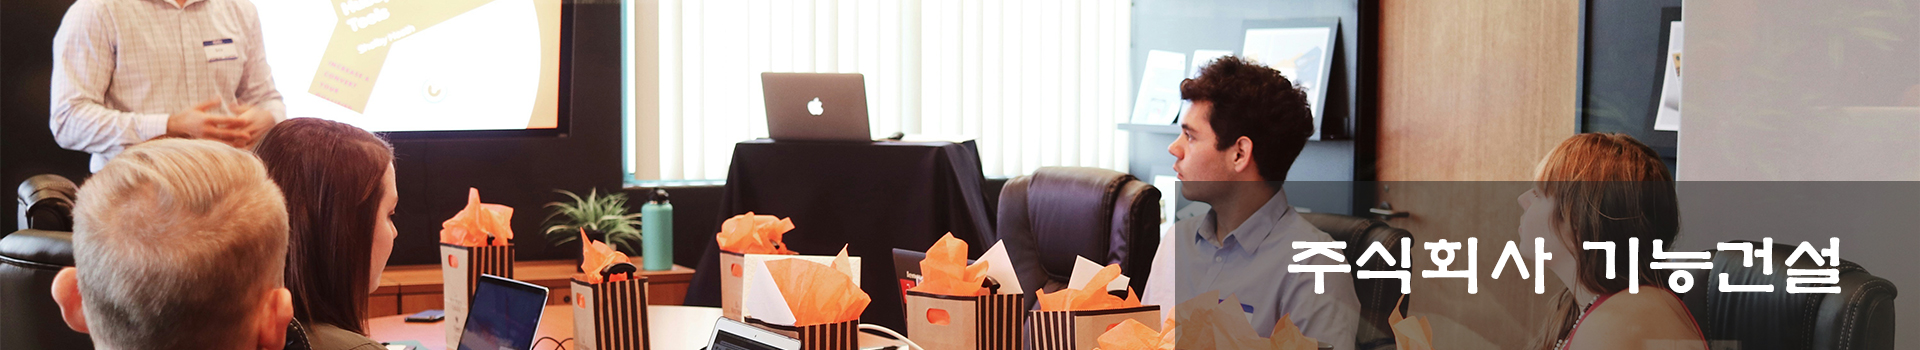
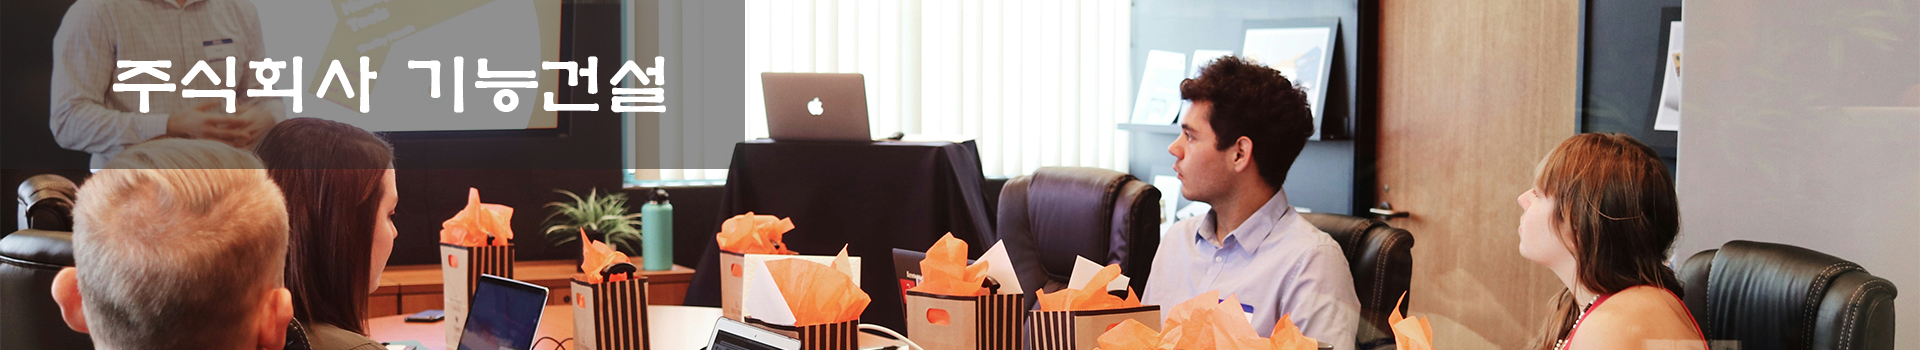
23-1

Changed region(s): [[0.5938, 0.5143, 1.0, 1.0], [0.0, 0.0, 0.4062, 0.4857]]

diff --git a/주식회사기능건설/css/style.css b/주식회사기능건설/css/style.css
@@ -164,6 +164,7 @@ html, body{
     height: 250px;
     width: 100%;
     padding: 20px;
+    background: #708e94;
 }
 #main .content .tabs{}
 #main .content .tabs ul{
@@ -205,7 +206,7 @@ html, body{
 }
 #main .content .tabContents .gallery ul{
     width: 100%;
-    height: 195px;
+    height: 185px;
     display: flex;
     justify-content: space-between;
     align-items: center;
@@ -226,8 +227,8 @@ html, body{
 }
 #main .content .tabContents .gallery ul li a img{
     display: block;
-    width: 60%;
-    height: 60%;
+    width: 55%;
+    height: 55%;
     object-fit: cover;
 }
 
